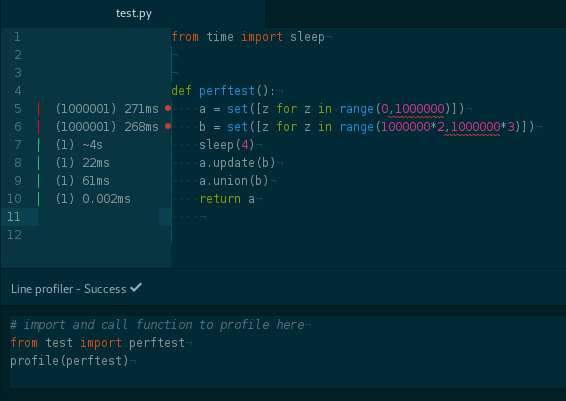
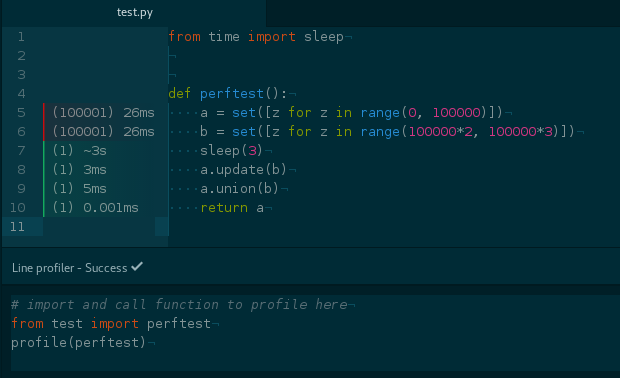
[core] Tweak color marker visuals

diff --git a/lib/utils/stats-gutter.js b/lib/utils/stats-gutter.js
@@ -4,6 +4,7 @@
 import _ from 'underscore-plus';
 import { scaleLinear } from 'd3-scale';
 import { extent } from 'd3-array';
+import { color as d3color } from 'd3-color';
 
 export default class StatsViewer {
     constructor(cfg) {
@@ -74,14 +75,26 @@ export default class StatsViewer {
         let item = document.createElement('div');
         item.className = 'line-stats';
 
-        let border = document.createElement('span');
-        border.className = 'border';
-        border.style['border-left-color'] = opts.color || 'white';
+        let colorMarker = document.createElement('span');
+        colorMarker.className = 'color-marker';
+        if (opts.color) {
+            // Use a gradient so that the marker color
+            // lightly bleeds on the numbers for style
+            // purposes only
+            var c = d3color(opts.color);
+            colorMarker.style['background'] = `linear-gradient(
+                to right,
+                rgba(${c.r},${c.g}, ${c.b}, 1),
+                rgba(${c.r}, ${c.g}, ${c.b}, 0.08) 2%,
+                rgba(${c.r}, ${c.g}, ${c.b}, 0)
+            )`;
+        }
 
         let textContainer = document.createElement('span');
         textContainer.innerHTML = text;
+        textContainer.className = 'text';
 
-        item.appendChild(border);
+        item.appendChild(colorMarker);
         item.appendChild(textContainer);
         return item;
     }

diff --git a/styles/cprofile.less b/styles/cprofile.less
@@ -5,11 +5,21 @@
 @import "ui-variables";
 
 .gutter[gutter-name*="pprofile"] {
+    .profile-gutter{
+        width: 100%;
+        height: 100%;
+        text-align: left;
+    }
+
     .line-stats{
-        .border {
-            margin-right: 15px;
-            border-left: 1px solid;
+        .color-marker {
+            position: absolute;
+            width: 100%;
             height: 100%;
+        }
+
+        .text{
+            margin-left: 8px;
         }
     }
 
